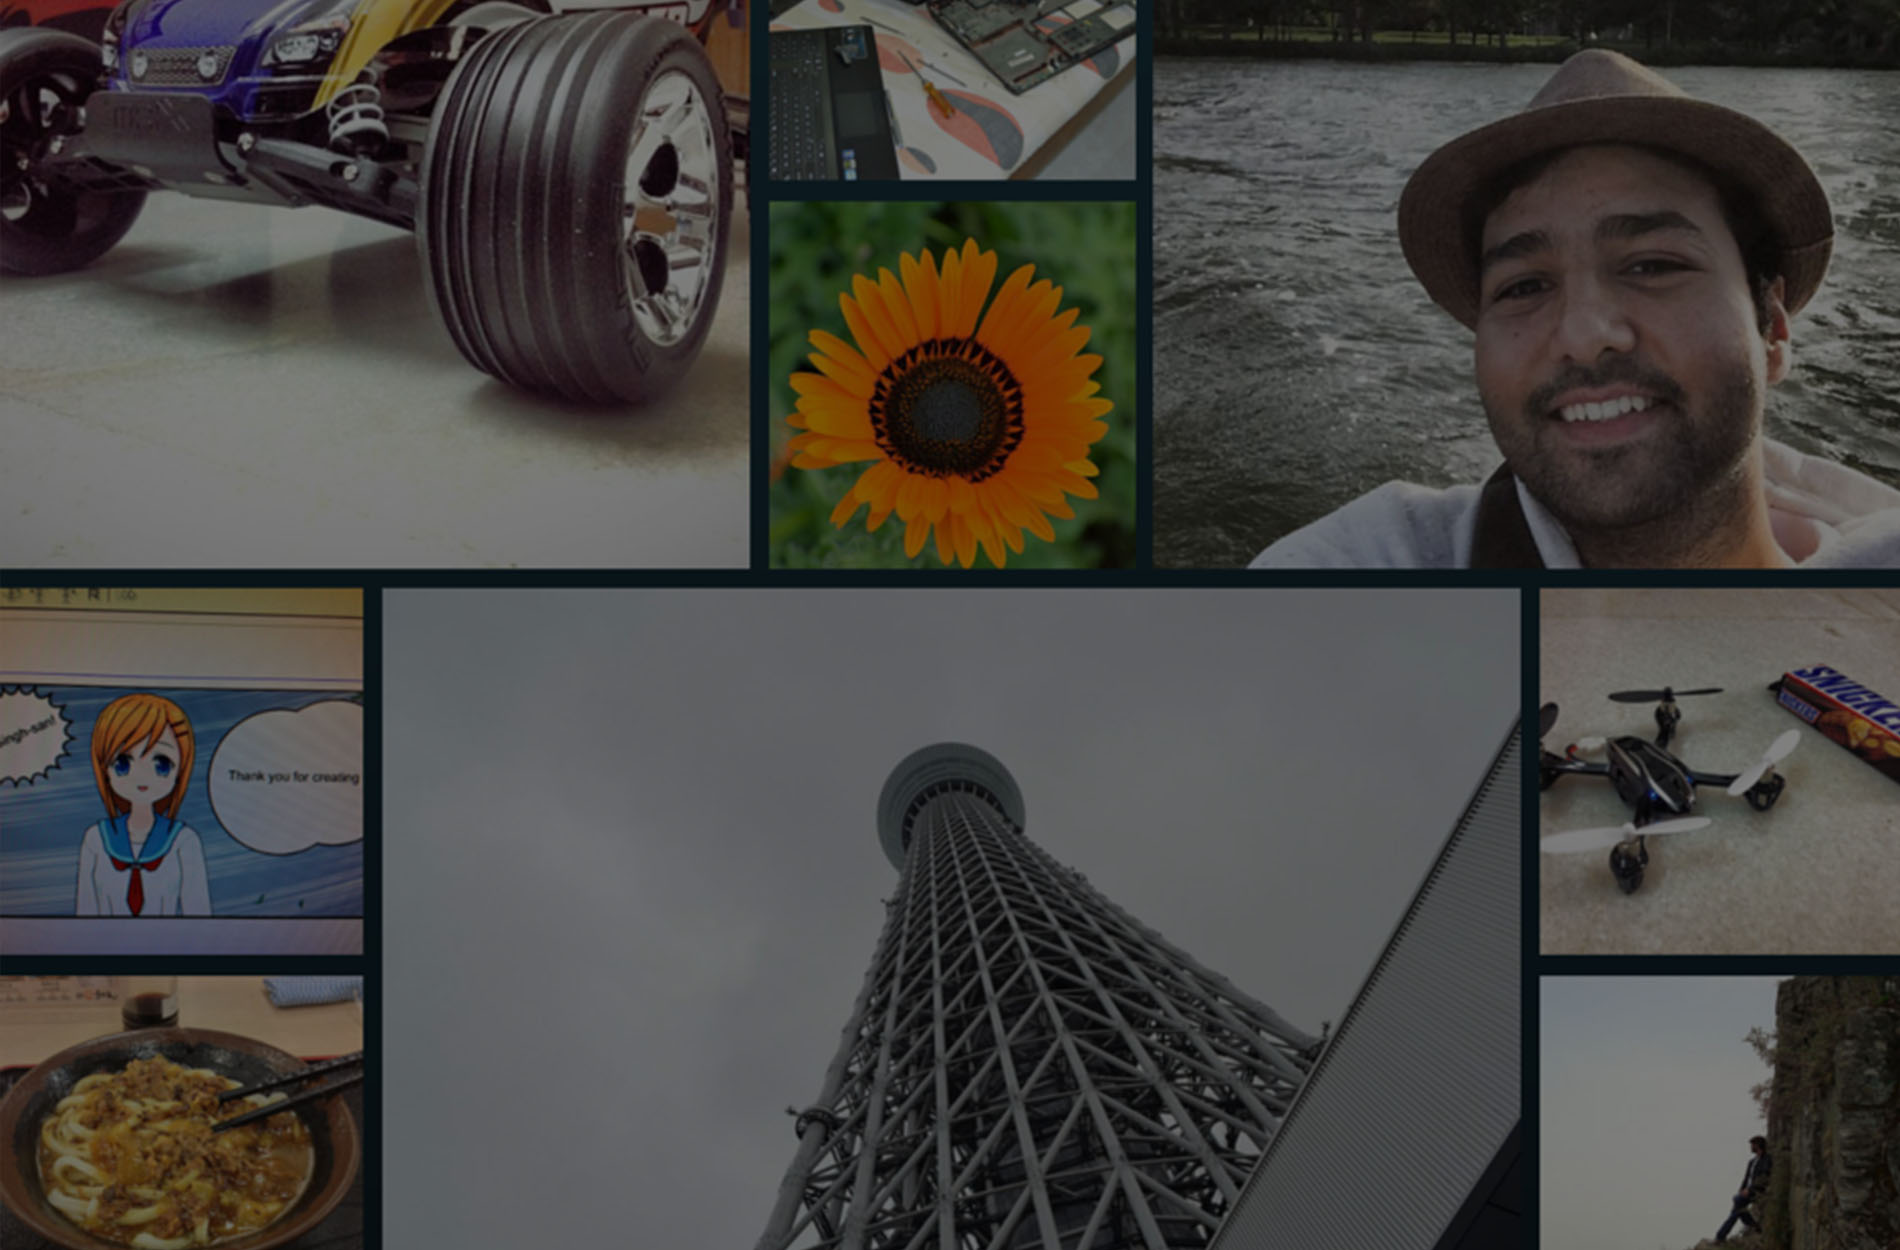
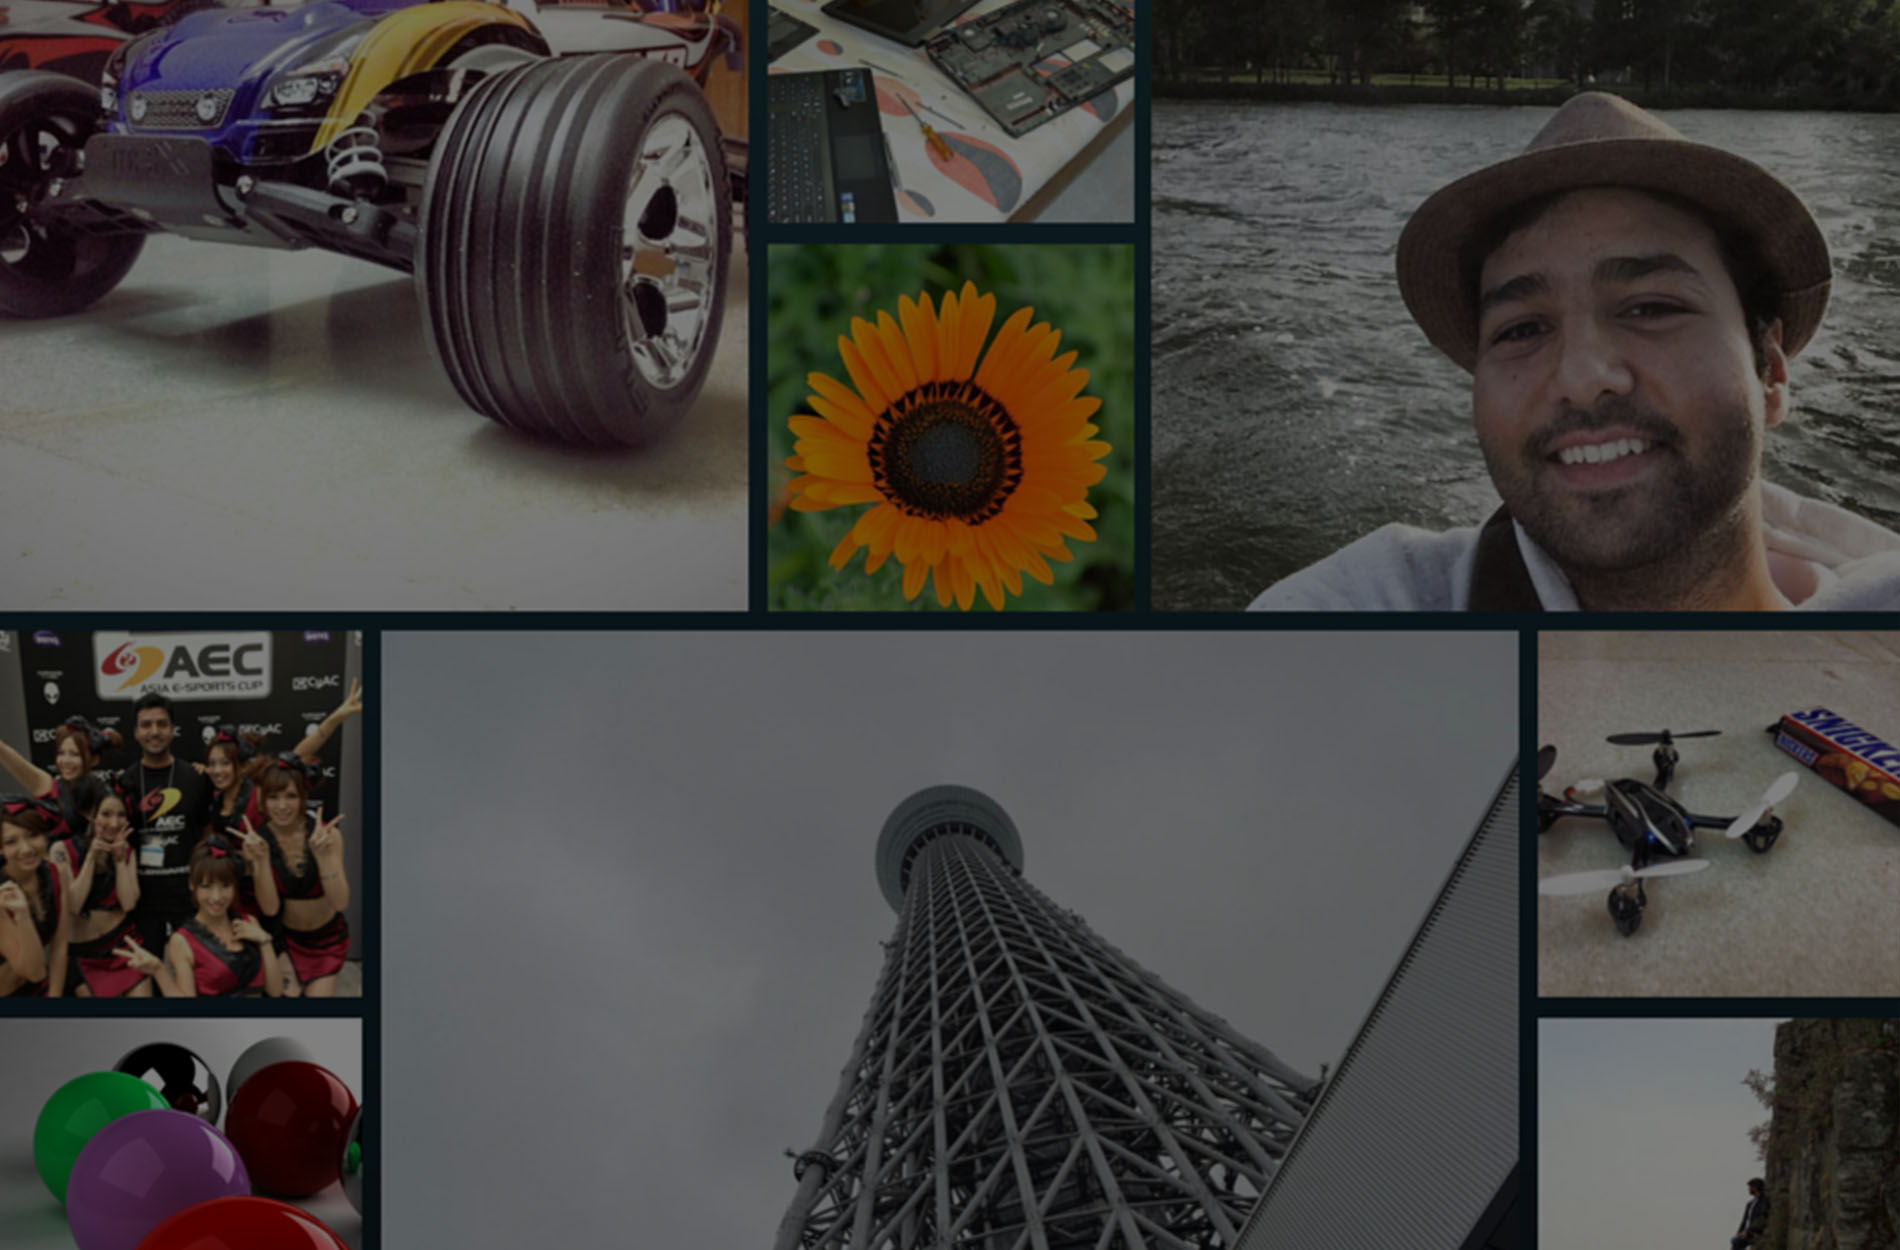
Updated portfolio and projects

diff --git a/Projects/portfolio/index.html b/Projects/portfolio/index.html
@@ -90,8 +90,8 @@
                 <div class="col-lg-8 col-lg-offset-2 text-center">
                     <h2 class="section-heading">Give me a chance to inspire you!</h2>
                     <hr class="light">
-                    <p class="text-faded">Hi, I'm Saurabh. A graduate student at Boston University pursuing my masters in Computer Engineering.
-                    I love going all-out in whatever I do, be it studies, my hobbies or my passions. I love diving into new technologies head-first..learning
+                    <p class="text-faded">Hi, I'm Saurabh. You can spot me in the Boston University labs and classrooms: always with a purpose.
+                    I love going all-out in whatever I do, be it studies, my hobbies or my passions. I love diving into new technologies head-first; learning
                     through application of concepts is how I learn best. I have travelled a lot, been a part of different cultures thanks to my past work experiences
                   and really enjoy working on projects which can serve a purpose and inspire others to build upon my work. On holidays, you can find me out in the field, kayaking in the Charles river
                 or just getting in touch with friends and family or meeting new people. I am a video game aficionado and have been a professional gamer (Quake Live, Dota 2). Oh but I'm no couch
@@ -124,7 +124,7 @@
                 <div class="col-lg-3 col-md-6 text-center">
                     <div class="service-box">
                         <i class="fa fa-4x fa-eye wow bounceIn text-primary" data-wow-delay=".1s"></i>
-                        <h3>A keen eye for detail</h3>
+                        <h3>A keen eye for attention to detail</h3>
                         <p class="text-muted">I love playing the perfectionist at times. Something about a task well accomplished
                         really excites me!</p>
                     </div>
@@ -141,7 +141,7 @@
                     <div class="service-box">
                         <i class="fa fa-4x fa-heart wow bounceIn text-primary" data-wow-delay=".3s"></i>
                         <h3>Patience, humility and a smile</h3>
-                        <p class="text-muted">I wouldn't have called myself humble or patient a few years ago. But life has taught me
+                        <p class="text-muted">I wouldn't have called myself a humble or a patient person a few years ago. But life has taught me
                         that in order to be able to succeed in our own eyes, we must approach our peers and friends with patience, humility and
                       a big smile <i class="fa fa-2x fa-smile-o wow bounceIn text-primary" data-wow-delay=".2s"></i></p>
                     </div>
@@ -154,7 +154,7 @@
         <div class="container-fluid">
             <div class="row no-gutter">
                 <div class="col-lg-4 col-sm-6">
-                    <a href="#" class="portfolio-box">
+                    <a href="http://saurabh.tech:3002/" target="_blank" class="portfolio-box">
                         <img src="img/portfolio/1.jpg" class="img-responsive" alt="">
                         <div class="portfolio-box-caption">
                             <div class="portfolio-box-caption-content">
@@ -184,45 +184,45 @@
                     </a>
                 </div>
                 <div class="col-lg-4 col-sm-6">
-                    <a href="#" class="portfolio-box">
+                    <a href="https://saurabh.tech:3000/" target="_blank" class="portfolio-box">
                         <img src="img/portfolio/3.jpg" class="img-responsive" alt="">
                         <div class="portfolio-box-caption">
                             <div class="portfolio-box-caption-content">
                                 <div class="project-category text-faded">
-                                    Category
+                                    HTML5 video and QR Code reader with Count-down Timer
                                 </div>
                                 <div class="project-name">
-                                    Project Name
+                                    A Valentine's Day surprise for my girlfriend :)
                                 </div>
                             </div>
                         </div>
                     </a>
                 </div>
                 <div class="col-lg-4 col-sm-6">
-                    <a href="#" class="portfolio-box">
+                    <a href="https://saurabh.tech" target="_blank" class="portfolio-box">
                         <img src="img/portfolio/4.jpg" class="img-responsive" alt="">
                         <div class="portfolio-box-caption">
                             <div class="portfolio-box-caption-content">
                                 <div class="project-category text-faded">
-                                    Category
+                                    Internet of Things
                                 </div>
                                 <div class="project-name">
-                                    Project Name
+                                    Smart Tupperware
                                 </div>
                             </div>
                         </div>
                     </a>
                 </div>
                 <div class="col-lg-4 col-sm-6">
-                    <a href="#" class="portfolio-box">
+                    <a href="http://saurabh.tech:3001/" target="_blank" class="portfolio-box">
                         <img src="img/portfolio/5.jpg" class="img-responsive" alt="">
                         <div class="portfolio-box-caption">
                             <div class="portfolio-box-caption-content">
                                 <div class="project-category text-faded">
-                                    Category
+                                    JavaScript and Recursion
                                 </div>
                                 <div class="project-name">
-                                    Project Name
+                                    Circular Fractals
                                 </div>
                             </div>
                         </div>
@@ -234,10 +234,11 @@
                         <div class="portfolio-box-caption">
                             <div class="portfolio-box-caption-content">
                                 <div class="project-category text-faded">
-                                    Category
+                                    Research (Will publish more details very soon)
                                 </div>
                                 <div class="project-name">
-                                    Project Name
+                                    Using the Barrett Proficio mechanical arm, I'm interfacing it with my Kinect project
+                                    to come up with a comprehensive solution for physiotherapy patients to facilitate a faster recovery for them
                                 </div>
                             </div>
                         </div>
@@ -250,8 +251,9 @@
     <aside class="bg-dark">
         <div class="container text-center">
             <div class="call-to-action">
-                <h2>Free Download at Start Bootstrap!</h2>
-                <a href="#" class="btn btn-default btn-xl wow tada">Download Now!</a>
+                <h3>You can know more about my skills and experience through my resume.</h3>
+                <br>
+                <a href="http://saurabh.tech/files/Saurabh%20Singh%20-%20Resume.pdf" target="_blank" class="btn btn-default btn-xl wow tada">Resume</a>
             </div>
         </div>
     </aside>
@@ -260,17 +262,25 @@
         <div class="container">
             <div class="row">
                 <div class="col-lg-8 col-lg-offset-2 text-center">
-                    <h2 class="section-heading">Let's Get In Touch!</h2>
+                    <h2 class="section-heading">But wait, there's much more to explore!</h2>
                     <hr class="primary">
-                    <p>Ready to start your next project with us? That's great! Give us a call or send us an email and we will get back to you as soon as possible!</p>
+                    <p></p>
                 </div>
-                <div class="col-lg-4 col-lg-offset-2 text-center">
-                    <i class="fa fa-phone fa-3x wow bounceIn"></i>
-                    <p>123-456-6789</p>
+                <div class="col-lg-3 col-md-3 text-center">
+                    <a href="https://github.com/saurabh21289" target="_blank"><i class="fa fa-github fa-5x wow bounceIn"></i></a>
+                    <p>Github</p>
                 </div>
-                <div class="col-lg-4 text-center">
-                    <i class="fa fa-envelope-o fa-3x wow bounceIn" data-wow-delay=".1s"></i>
-                    <p><a href="mailto:your-email@your-domain.com">feedback@startbootstrap.com</a></p>
+                <div class="col-lg-3 col-md-3 text-center">
+                    <a href="https://www.facebook.com/pr0d1gy" target="_blank"><i class="fa fa-facebook-official fa-5x wow bounceIn"></i></a>
+                    <p>Facebook</p>
+                </div>
+                <div class="col-lg-3 col-md-3 text-center">
+                    <a href="http://apokalupsis-art.deviantart.com/" target="_blank"><i class="fa fa-deviantart fa-5x wow bounceIn" data-wow-delay=".1s"></i></a>
+                    <p>DeviantArt</p>
+                </div>
+                <div class="col-lg-3 col-md-3 text-center">
+                    <a href="mailto:ssingh02@bu.edu"><i class="fa fa-envelope fa-5x wow bounceIn" data-wow-delay=".1s"></i></a>
+                    <p>Email</p>
                 </div>
             </div>
         </div>

diff --git a/Projects/Autonomous Robot/index.html b/Projects/Autonomous Robot/index.html
@@ -32,7 +32,7 @@
           </div>
         </div>
               <div align="center" class="col-xs-5 col-md-3">
-              <h4 align="center">Use WASD to control the robot!</h4>
+              <h4 align="center">Use WASD to control the robot! (<a href="http://saurabh.tech:3002/live_location.html" target="_blank">Live GPS location</a>)</h4>
               </div>
               <div class="col-xs-5 col-md-5">
                 <h4>Accelerometer Control!</h4>
@@ -64,9 +64,9 @@
         <!-- <iframe src="http://10.0.0.144:8080/jsfs.html" width="400" height="300" allowfullscreen="" frameborder="0">
           <p>Your browser does not support iframes.</p>
         </iframe> -->
-        <h4 align="center">Live feed from the robot</h4>
-        <iframe src="http://192.168.1.100:8080/jsfs.html" height="200" width="400" scrolling="no" allowfullscreen="" frameborder="0">
-
+        <h4 align="center">Live feed from the robot (Offline)</h4>
+        <iframe src="" height="200" width="400" scrolling="no" allowfullscreen="" frameborder="0">
+            <!-- http://192.168.1.100:8080/jsfs.html -->
         </iframe>
         </div>
         <div class="col-xs-2 col-md-2" class="embed-responsive embed-responsive-4by4">
@@ -86,15 +86,16 @@
       <!-- http://10.0.0.144:8080/sensors.html -->
       <div class="row">
         <div class="col-xs-8 col-md-6" class="embed-responsive embed-responsive-16by4">
-        <h4 align="center">Sensor data from crawler</h4>
-        <iframe src="http://192.168.1.100:8080/sensors.html" width="750" height="550" allowfullscreen="" scrolling="no" frameborder="0">
+        <h4 align="center">Sensor data from crawler (Offline)</h4>
+        <iframe src="" width="750" height="550" allowfullscreen="" scrolling="no" frameborder="0">
           <p>Your browser does not support iframes.</p>
+          <!-- http://192.168.1.100:8080/sensors.html -->
         </iframe>
       </div>
     </div>
       <div class="row">
       <div class="col-md-3">
-      <h4>Plot Values</h4>
+      <h4>Plot Values (Offline)</h4>
       <textarea class="form-control" style="background:#ffffff; color:#000000;" rows="8" id="inData3"></textarea>
       </div>
       <div class="col-md-12">

diff --git a/Projects/QR Code Reader/index.html b/Projects/QR Code Reader/index.html
@@ -29,7 +29,7 @@
       <section id="main_content" class="inner center">
 
         <div  class="center" id="reader" style="width:400px;height:300px;"></div>
-        <h2 class="center">QR Code Data -> <span id="read" class="center"></span></h2>
+        <h2 class="center">Scan QR Code above: <span id="read" class="center"></span></h2>
         <br>
       </div>
 

diff --git a/Projects/Valentine/js/script.js b/Projects/Valentine/js/script.js
@@ -5,6 +5,6 @@ $(document).ready(function(){
 	/* ---- Countdown timer ---- */
 
 	$('#counter').countdown({
-		timestamp : new Date ("February 14, 2016 00:00:01")
+		timestamp : new Date ("February 29, 2016 00:00:01")
 	});
 });
